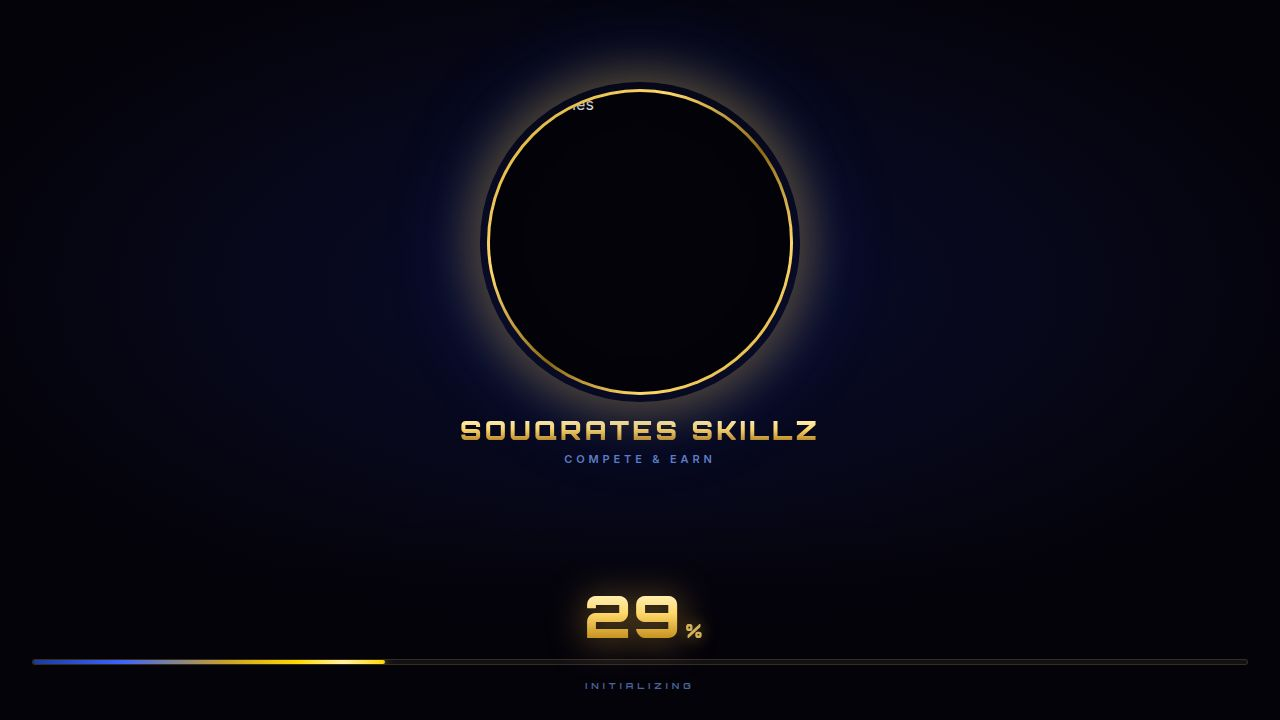
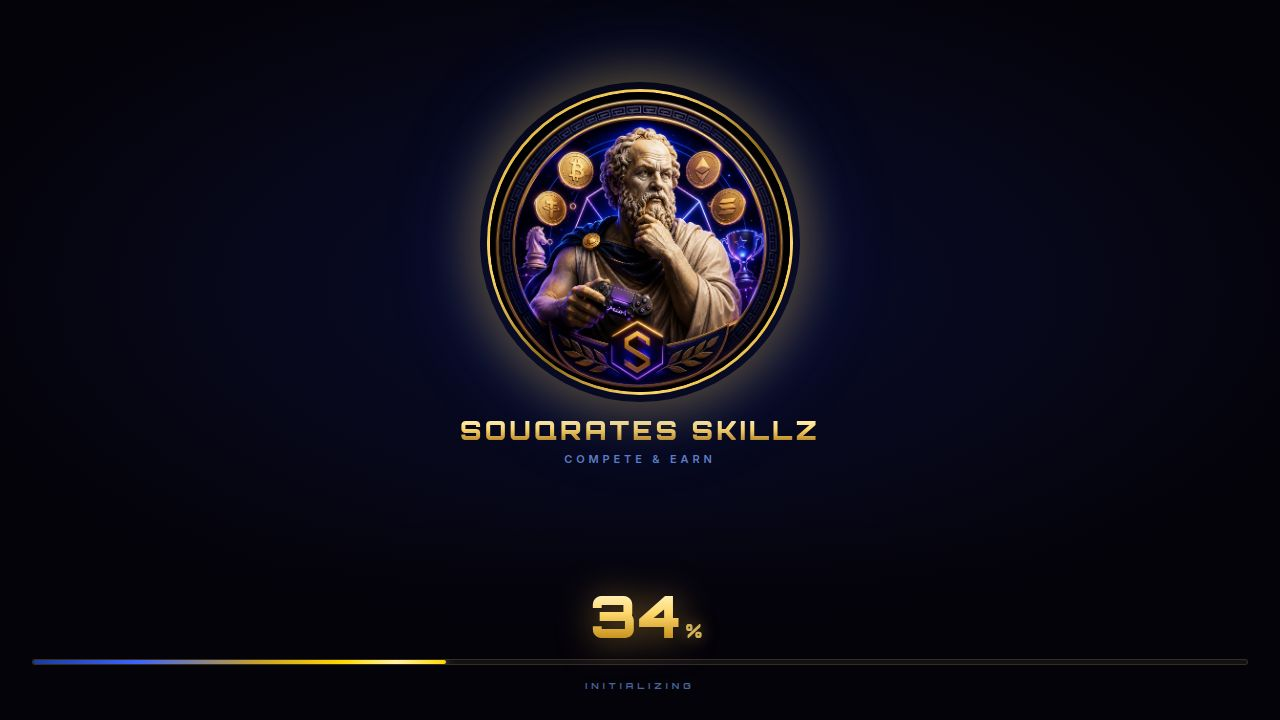
Improve splash screen reliability and user experience
Add app-level safety valve, tap-to-skip functionality, and interval-based fallback to SplashScreen. Remove `visibility:hidden` from App component wrapper.

Replit-Commit-Author: Agent
Replit-Commit-Session-Id: 26dce1ef-2858-4889-b7cc-6d7827b8de10
Replit-Commit-Checkpoint-Type: full_checkpoint
Replit-Commit-Event-Id: ad0dd29c-6ff5-448c-b1db-eb5136a888ff
Replit-Commit-Screenshot-Url: https://storage.googleapis.com/screenshot-production-us-central1/f1632180-4b98-4913-9899-bdfe8e5779df/26dce1ef-2858-4889-b7cc-6d7827b8de10/i6Kz68m
Replit-Helium-Checkpoint-Created: true

Changed region(s): [[0.375, 0.1222, 0.625, 0.55], [0.125, 0.9167, 0.3438, 0.9472], [0.4375, 0.825, 0.5312, 0.8861]]

diff --git a/artifacts/games-bot/src/components/SplashScreen.jsx b/artifacts/games-bot/src/components/SplashScreen.jsx
@@ -17,34 +17,64 @@ export default function SplashScreen({ onDone }) {
 
   useEffect(() => {
     const total = tier === 'high' ? 1800 : tier === 'mid' ? 2200 : 2600;
-    const start = performance.now();
+    const start = Date.now();
     let raf;
     let doneTimer;
+    let intervalId;
     let finished = false;
-    const tick = (now) => {
-      const elapsed = now - start;
+
+    const finish = () => {
+      if (finished) return;
+      finished = true;
+      setProgress(100);
+      doneTimer = setTimeout(() => onDoneRef.current?.(), 150);
+    };
+
+    // Primary driver: requestAnimationFrame (smooth on active tabs)
+    const tick = () => {
+      const elapsed = Date.now() - start;
       const pct = Math.min(100, Math.round((elapsed / total) * 100));
       setProgress(pct);
       if (pct < 100) {
         raf = requestAnimationFrame(tick);
-      } else if (!finished) {
-        finished = true;
-        doneTimer = setTimeout(() => onDoneRef.current?.(), 200);
+      } else {
+        finish();
       }
     };
     raf = requestAnimationFrame(tick);
+
+    // Backup driver: setInterval (fires even when rAF is throttled,
+    // e.g. some Telegram WebView edge cases on iOS/Android)
+    intervalId = setInterval(() => {
+      const elapsed = Date.now() - start;
+      const pct = Math.min(100, Math.round((elapsed / total) * 100));
+      setProgress((prev) => (pct > prev ? pct : prev));
+      if (pct >= 100) finish();
+    }, 100);
+
+    // Hard safety valve: absolutely guarantee onDone fires within 4s
+    // no matter what (broken rAF, frozen interval, throwing handlers, etc.)
+    const hardTimeout = setTimeout(finish, 4000);
+
     return () => {
       if (raf) cancelAnimationFrame(raf);
       if (doneTimer) clearTimeout(doneTimer);
+      if (intervalId) clearInterval(intervalId);
+      clearTimeout(hardTimeout);
     };
   }, []);
+
+  // Tap-to-skip — last-resort manual escape so user is never trapped
+  const skip = () => onDoneRef.current?.();
 
   return (
     <motion.div
       className="fixed inset-0 z-[200] overflow-hidden"
-      style={{ background: '#04030a' }}
+      style={{ background: '#04030a', cursor: 'pointer' }}
       exit={{ opacity: 0, scale: 1.04 }}
-      transition={{ duration: 0.35, ease: 'easeIn' }}
+      transition={{ duration: 0.25, ease: 'easeIn' }}
+      onClick={skip}
+      onTouchEnd={skip}
     >
       {/* Deep background radial — midnight blue matching logo */}
       <div style={{

diff --git a/artifacts/games-bot/src/App.jsx b/artifacts/games-bot/src/App.jsx
@@ -94,6 +94,14 @@ const PAGES = { dashboard: Dashboard, games: Games, contests: Contests, leaderbo
 
 export default function App() {
   const [appReady, setAppReady] = useState(false);
+
+  // App-level safety valve: even if SplashScreen never calls onDone
+  // (broken timers, JS error in splash, etc.), force the app to become
+  // interactive within 5 seconds so the user is never trapped on splash.
+  useEffect(() => {
+    const t = setTimeout(() => setAppReady(true), 5000);
+    return () => clearTimeout(t);
+  }, []);
   const [openGame, setOpenGame] = useState(null);
   const [openGameTiers, setOpenGameTiers] = useState(null);
   const [pendingRoom, setPendingRoom] = useState(null);
@@ -273,7 +281,7 @@ export default function App() {
       {inMaintenance ? (
         <MaintenanceScreen appConfig={appConfig} />
       ) : (
-        <div style={{ visibility: appReady ? 'visible' : 'hidden' }}>
+        <div>
           <NotificationSystem />
           <AdminAnnouncementBanner />
           <Navbar />
